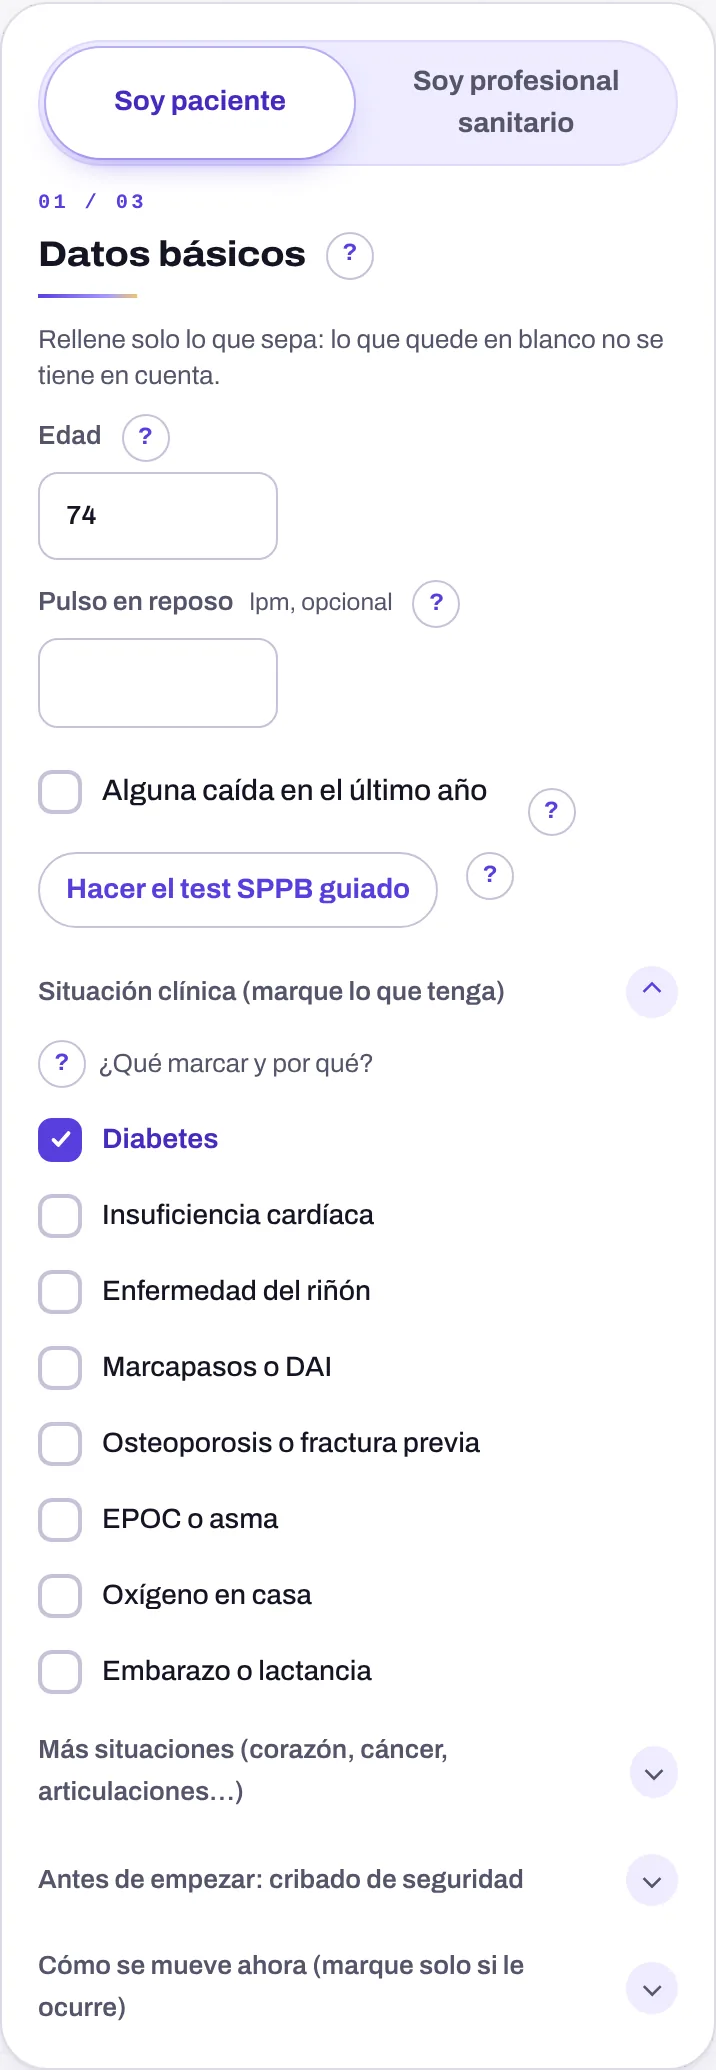
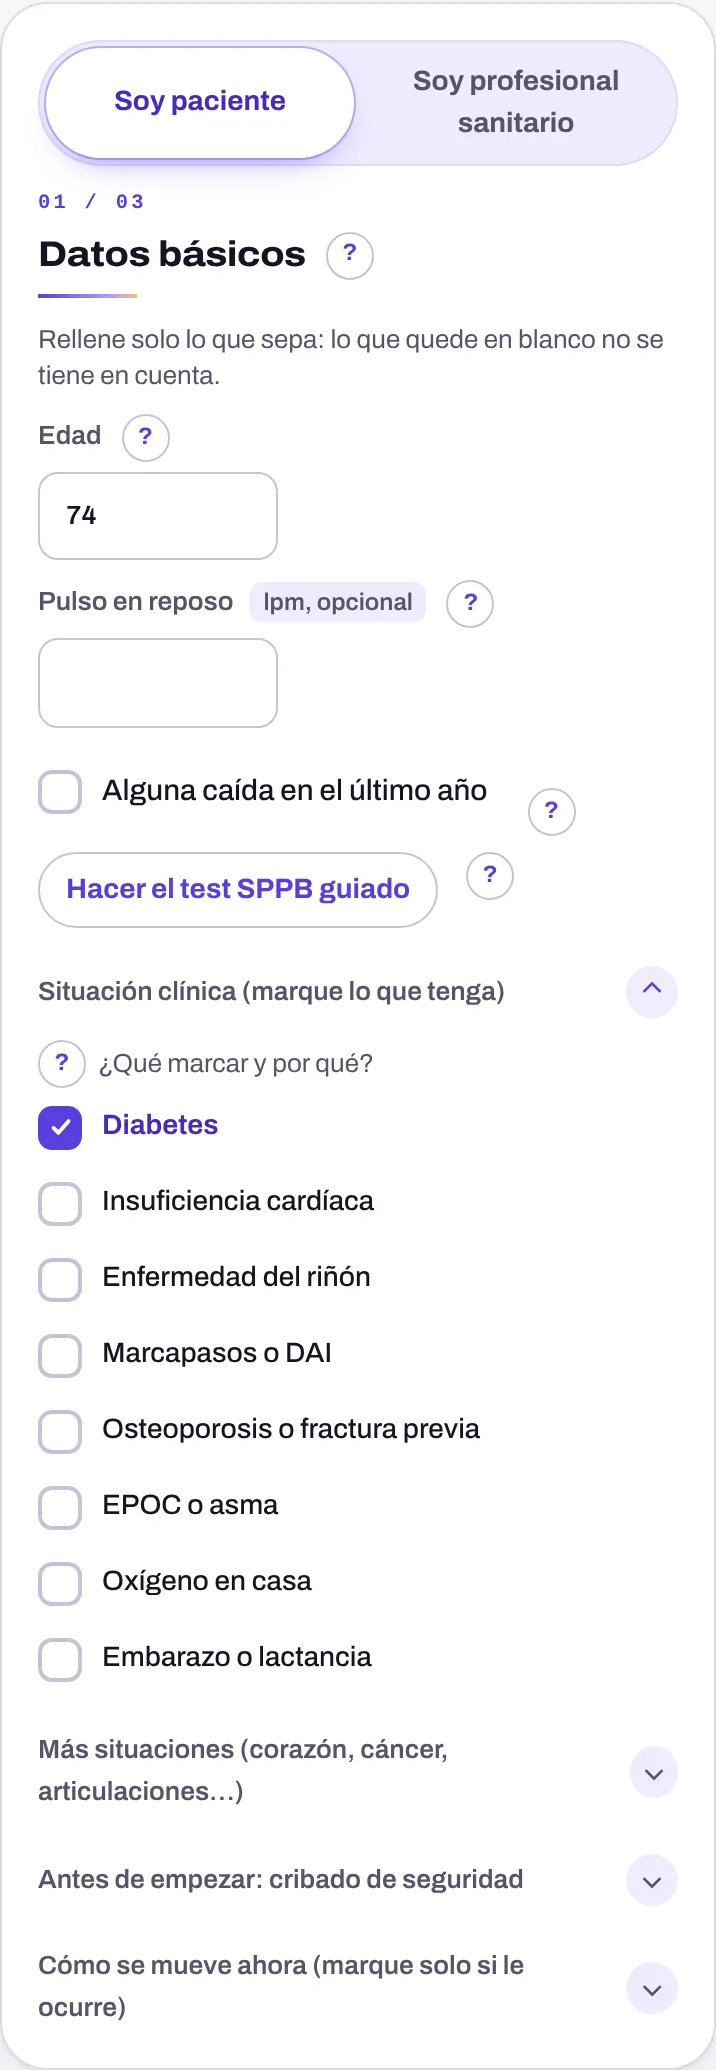
Barra inferior: Mi plan solo cuando se ve el contenido del plan; franja horaria con nombre accesible real; capturas rehechas; version 202611211009
Claude-Session: https://claude.ai/code/session_01WtVgh7xbR4kRDDh9Je2ank

Changed region(s): [[0.0307, 0.5256, 0.676, 0.8348], [0.3687, 0.2783, 0.676, 0.3092]]

diff --git a/app/js/app.js b/app/js/app.js
@@ -1,11 +1,11 @@
-import { construirIndice, buscar, evaluar, informeTexto, ORDEN_NIVEL, MOMENTOS, MOMENTO_TXT, HORA_MOMENTO, momentosPorDefecto, ventanaEntrenamiento, loEsencial, ALARMA, sintomasPosibles, SINTOMAS, sesionTipo, objetivoSemanal, rachaSemanas, progresion, planSemana, minutosPorSemana, compararListas, constantesRelevantes, chequeoPrevio, veredictoChequeo, SINTOMAS_ACSM, enfermedadSugerida, cribadoACSM, CRIBADO_TXT, nivelEvidencia, EVIDENCIA, seccionFT, comprobarCaso, zonaIntensidad, impactoPorFarmaco, puntuarSPPB, vivifrailDeSppb, evolucion, textoEvolucion } from "./engine.js?v=202611210913";
-import { APP_VERSION } from "./version.js?v=202611210913";
-import { extraerMedicacion, textoDePdf } from "./parser.js?v=202611210913";
-import { picto } from "./pictos.js?v=202611210913";
-import { pdfMedico, pdfPaciente, pdfEntrenador, pdfTarjeta, textoHistoria, prescripcion, listasVistazo, ritmoTexto, filasPlanPaciente, pdfEvolucion } from "./informes.js?v=202611210913";
-import { cargarScript } from "./libs.js?v=202611210913";
-import { textoDeImagen, textoDePdfEscaneado } from "./ocr.js?v=202611210913";
-import { t, aplicarIdioma, detectarIdioma, idioma } from "./i18n.js?v=202611210913";
+import { construirIndice, buscar, evaluar, informeTexto, ORDEN_NIVEL, MOMENTOS, MOMENTO_TXT, HORA_MOMENTO, momentosPorDefecto, ventanaEntrenamiento, loEsencial, ALARMA, sintomasPosibles, SINTOMAS, sesionTipo, objetivoSemanal, rachaSemanas, progresion, planSemana, minutosPorSemana, compararListas, constantesRelevantes, chequeoPrevio, veredictoChequeo, SINTOMAS_ACSM, enfermedadSugerida, cribadoACSM, CRIBADO_TXT, nivelEvidencia, EVIDENCIA, seccionFT, comprobarCaso, zonaIntensidad, impactoPorFarmaco, puntuarSPPB, vivifrailDeSppb, evolucion, textoEvolucion } from "./engine.js?v=202611211009";
+import { APP_VERSION } from "./version.js?v=202611211009";
+import { extraerMedicacion, textoDePdf } from "./parser.js?v=202611211009";
+import { picto } from "./pictos.js?v=202611211009";
+import { pdfMedico, pdfPaciente, pdfEntrenador, pdfTarjeta, textoHistoria, prescripcion, listasVistazo, ritmoTexto, filasPlanPaciente, pdfEvolucion } from "./informes.js?v=202611211009";
+import { cargarScript } from "./libs.js?v=202611211009";
+import { textoDeImagen, textoDePdfEscaneado } from "./ocr.js?v=202611211009";
+import { t, aplicarIdioma, detectarIdioma, idioma } from "./i18n.js?v=202611211009";
 
 // Si la hoja de estilos aún no ha llegado (los módulos se precargan en paralelo), esperar: así la primera maquetación ya es la definitiva y no hay saltos.
 await new Promise((ok) => { const l = document.querySelector('link[rel="stylesheet"]'); if (!l || l.sheet) ok(); else { l.addEventListener("load", ok, { once: true }); l.addEventListener("error", ok, { once: true }); setTimeout(ok, 4000); } });
@@ -803,14 +803,14 @@ new IntersectionObserver(([e]) => {
 // qué sección está a la vista → pestaña activa en la barra inferior
 {
   const vis = new Map();
-  // la sección que cruza una franja en el centro de la pantalla (la proporción visible engañaba con el informe, mucho más alto)
+  // la sección que cruza una franja en el centro de la pantalla (la proporción visible engañaba con el informe, mucho más alto);
+  // dentro del informe, «Mi plan» solo cuando lo que cruza la franja es el contenido de la pestaña del plan
   const obs = new IntersectionObserver((es) => {
     for (const e of es) vis.set(e.target.id, e.isIntersecting);
-    const activa = ["informe", "panel-medicacion", "panel-datos"].find((id) => vis.get(id));
-    if (!activa) return;
-    marcarNav({ "panel-datos": "datos", "panel-medicacion": "medicacion", informe: estado.tab === "plan" && enInforme ? "plan" : "informe" }[activa]);
+    const activa = vis.get("contenido-tab") && estado.tab === "plan" ? "plan" : vis.get("informe") ? "informe" : vis.get("panel-medicacion") ? "medicacion" : vis.get("panel-datos") ? "datos" : null;
+    if (activa) marcarNav(activa);
   }, { rootMargin: "-45% 0px -50% 0px" });
-  for (const id of ["panel-datos", "panel-medicacion", "informe"]) { const el = document.getElementById(id); if (el) obs.observe(el); }
+  for (const id of ["panel-datos", "panel-medicacion", "informe", "contenido-tab"]) { const el = document.getElementById(id); if (el) obs.observe(el); }
 }
 
 /* ---------- escuchar «Lo esencial» (síntesis de voz del navegador) ---------- */
@@ -1774,7 +1774,7 @@ function renderCuando(cont) {
   const conInfo = v.motivos.length || v.avisos.length;
   sec.innerHTML = `
     <p class="intro-cuando">${conInfo ? t("cuando.intro") : "Ninguno de sus fármacos condiciona la hora de entrenar. Elija el momento del día que mejor le encaje; lo importante es la constancia."}</p>
-    <div class="timeline" role="img" aria-label=t("cuando.titulo")>${v.horas.map((x) => `<div class="hora nivel-${x.nivel}" title="${hh(x.h)}${x.motivos.length ? ": " + x.motivos.map((m) => m.farmaco + " (" + m.motivo + ")").join("; ") : ""}"><span>${x.h % 3 === 0 ? x.h : ""}</span></div>`).join("")}</div>
+    <div class="timeline" role="img" aria-label="${t("cuando.titulo")}">${v.horas.map((x) => `<div class="hora nivel-${x.nivel}" title="${hh(x.h)}${x.motivos.length ? ": " + x.motivos.map((m) => m.farmaco + " (" + m.motivo + ")").join("; ") : ""}"><span>${x.h % 3 === 0 ? x.h : ""}</span></div>`).join("")}</div>
     ${v.mejores.length ? `<p class="mejores">Mejores momentos: ${v.mejores.map((f) => `<b>${hh(f.desde)}–${hh(f.hasta)}</b>`).join(" y ")}</p>` : ""}
     <details class="bloque" open><summary><span class="sub-label">Hora de sus tomas</span><span class="flecha" aria-hidden="true">⌄</span></summary>
       <div class="fila horas-tomas">${MOMENTOS.map((m) => `<label>${MOMENTO_TXT[m]} <input type="number" min="0" max="23" inputmode="numeric" data-hora="${m}" value="${estado.horas[m]}"></label>`).join("")}</div>

diff --git a/app/index.html b/app/index.html
@@ -58,18 +58,18 @@
 }
 </script>
 <link rel="preload" href="assets/fonts/Archivo-latin.woff2" as="font" type="font/woff2" crossorigin>
-<link rel="modulepreload" href="js/version.js?v=202611210913">
-<link rel="modulepreload" href="js/libs.js?v=202611210913">
-<link rel="modulepreload" href="js/i18n.js?v=202611210913">
-<link rel="modulepreload" href="js/pictos.js?v=202611210913">
-<link rel="modulepreload" href="js/engine.js?v=202611210913">
-<link rel="modulepreload" href="js/parser.js?v=202611210913">
-<link rel="modulepreload" href="js/informes.js?v=202611210913">
-<link rel="modulepreload" href="js/ocr.js?v=202611210913">
+<link rel="modulepreload" href="js/version.js?v=202611211009">
+<link rel="modulepreload" href="js/libs.js?v=202611211009">
+<link rel="modulepreload" href="js/i18n.js?v=202611211009">
+<link rel="modulepreload" href="js/pictos.js?v=202611211009">
+<link rel="modulepreload" href="js/engine.js?v=202611211009">
+<link rel="modulepreload" href="js/parser.js?v=202611211009">
+<link rel="modulepreload" href="js/informes.js?v=202611211009">
+<link rel="modulepreload" href="js/ocr.js?v=202611211009">
 <link rel="preload" href="data/kb.json" as="fetch" crossorigin>
 <link rel="preload" href="data/ddi_curated.json" as="fetch" crossorigin>
 <meta name="theme-color" content="#140B3A">
-<link rel="stylesheet" href="css/style.css?v=202611210913">
+<link rel="stylesheet" href="css/style.css?v=202611211009">
 </head>
 <body class="cargando" data-modo="paciente">
 
@@ -403,6 +403,6 @@
   <button type="button" data-ir="plan" data-ic="plan"><span data-i18n="nav.plan">Mi plan</span><b class="nav-badge" hidden></b></button>
 </nav>
 
-<script type="module" src="js/app.js?v=202611210913"></script>
+<script type="module" src="js/app.js?v=202611211009"></script>
 </body>
 </html>

diff --git a/app/js/informes.js b/app/js/informes.js
@@ -1,8 +1,8 @@
 /* Resúmenes en PDF (jsPDF, global window.jspdf).
    Dos documentos: "Informe clínico" para el médico y "Su plan" para el paciente.
    Sistema de maquetación propio: cabecera, bandas, tablas con zebra, tarjetas con acento, pastillas de nivel. */
-import { jspdf, cargarScript } from "./libs.js?v=202611210913";
-import { ORDEN_NIVEL, ORDEN_DDI, MOMENTO_TXT, loEsencial, ALARMA, PLAN_SEMANA, sesionTipo, planSemana, textoEvolucion, SINTOMAS } from "./engine.js?v=202611210913";
+import { jspdf, cargarScript } from "./libs.js?v=202611211009";
+import { ORDEN_NIVEL, ORDEN_DDI, MOMENTO_TXT, loEsencial, ALARMA, PLAN_SEMANA, sesionTipo, planSemana, textoEvolucion, SINTOMAS } from "./engine.js?v=202611211009";
 
 const AUTOR = "Dr. Pelayo Fdez. Cidón · Medicina Interna · prescriptor de ejercicio físico";
 const MARCA = "Fuerza Basada en Evidencia";

diff --git a/app/sw.js b/app/sw.js
@@ -1,7 +1,7 @@
 /* Service worker: la aplicación y la base de conocimiento funcionan sin conexión.
    El nombre de la caché cambia con cada despliegue (scripts/bump_version.py lo sella), de modo que
    una versión nueva se descarga en segundo plano y se activa cuando el usuario pulsa "Actualizar". */
-const VERSION = "202611210913";
+const VERSION = "202611211009";
 const CACHE = "medex-" + VERSION;
 const APP = ["./", "index.html", "novedades.html", "acerca.html", "manifest.webmanifest", "css/style.css", "js/app.js", "js/engine.js", "js/parser.js", "js/informes.js", "js/pictos.js", "js/ocr.js", "js/libs.js", "js/i18n.js", "js/version.js",
   "data/kb.json", "data/ddi_curated.json", "data/ddi.json", "data/marcas.json",

diff --git a/app/js/parser.js b/app/js/parser.js
@@ -1,6 +1,6 @@
 /* Reconocimiento de medicación en texto libre (lista pegada o texto extraído de un PDF). */
-import { pdfjs } from "./libs.js?v=202611210913";
-import { normalizar } from "./engine.js?v=202611210913";
+import { pdfjs } from "./libs.js?v=202611211009";
+import { normalizar } from "./engine.js?v=202611211009";
 
 let catalogo = null; // [{norm, pid, tipo, dosis, unidad}] ordenado por longitud desc
 

diff --git a/app/js/ocr.js b/app/js/ocr.js
@@ -1,5 +1,5 @@
 /* OCR en el navegador con Tesseract.js (se carga bajo demanda; el modelo en español se descarga la primera vez). */
-import { tesseract, pdfjs } from "./libs.js?v=202611210913";
+import { tesseract, pdfjs } from "./libs.js?v=202611211009";
 const LANG_PATH = "https://tessdata.projectnaptha.com/4.0.0_fast";
 
 let worker = null;
